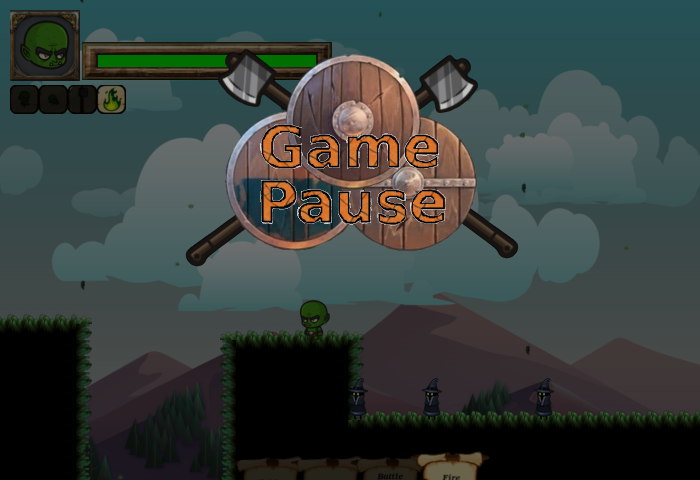
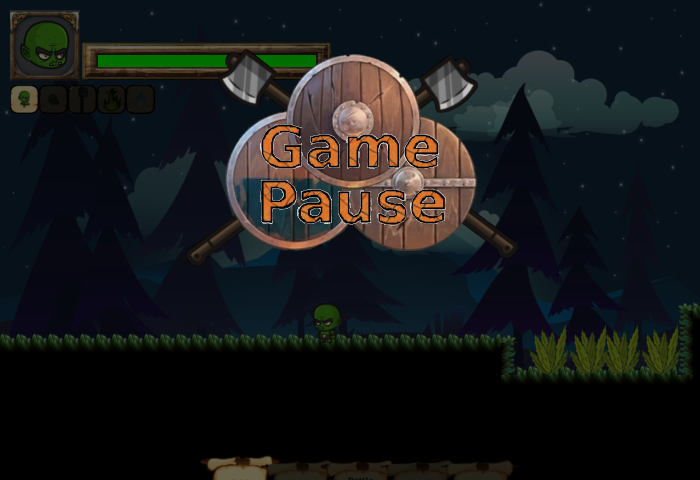
Reajusting the game envirement

diff --git a/data/gameplay/enimy/__init__.py b/data/gameplay/enimy/__init__.py
@@ -18,6 +18,7 @@ class ControlEnimys(object):
         self.allCactusPosition = []
         self.killAttempt = []
         self.enimyKilled = 0
+        self.bossKilled = False
         self.count = 0
         self.addingAllTheAnimys()
 
@@ -46,10 +47,10 @@ class ControlEnimys(object):
                 if(pos[0] in range(scroll[0]-450, scroll[0]+650)):
                     all_rects.append(cactus.add(tile_rects, scroll))
                     self.count += 1
-        print(self.killAttempt)
+        # print(self.killAttempt)
         # print(self.killAttempt)
         # print(self.enimyKilled)
-        return all_rects, self.enimyKilled
+        return all_rects, self.enimyKilled, self.bossKilled
     def addingAllTheAnimys(self):
         if(self.nivel == 0):          
             self.allCactusPosition = [(928, 184),(964, 184),(2370, 504),(2410, 504),(2450, 504),(2478, 504),(3778, 472),(3746, 472),
@@ -157,7 +158,7 @@ class ControlEnimys(object):
             self.allEnimys.append(Wizard(self.screen,(2720,280), 100))
             self.allEnimys.append(Wizard(self.screen,(2720,280), 100))
             self.allEnimys.append(Wizard(self.screen,(2720,280), 100))
-            self.allEnimys.append(Graveller(self.screen, (3603, 120), 356))
+            self.allEnimys.append(Graveller(self.screen, (3603, 120), 250))
 
             self.allEnimysPosition = [(2008,536), (2720,280), (2720,280), (2720,280), (3603, 120)]
 
@@ -199,4 +200,6 @@ class ControlEnimys(object):
                     self.allEnimys.pop(i)
                     self.allEnimysPosition.pop(i)
                     self.killAttempt.pop(i)
-            i += 1  
+            i += 1 
+        elif((self.nivel == 3)and(len(self.allEnimysPosition)==0)):
+            self.bossKilled = True

diff --git a/data/gameplay/__init__.py b/data/gameplay/__init__.py
@@ -41,6 +41,7 @@ class GamePlay(object):
         self.nrInimys = 0
         self.knowingEnimysNr()
         self.playerOnAttack = False
+        self.bossKilled = False
 
         self.count = 0
         self.pos = 0
@@ -62,7 +63,7 @@ class GamePlay(object):
         self.scroll, self.player_rect,self.fireArray, self.enimyCollision, self.enimyType, self.fireEnimyColision, self.fireCollsionPos, self.playerOnAttack = self.player.settingPlayer(tile_rects, self.scroll, self.allEnimysRectsAndTypes, self.inUse)
 
         # update after we check the collision
-        self.allEnimysRectsAndTypes, self.enimysKilled = self.enimys.enimysAdd(tile_rects, self.player_rect,(self.fireEnimyColision, self.fireCollsionPos),(self.playerOnAttack,self.enimyCollision, self.inUse), self.scroll)
+        self.allEnimysRectsAndTypes, self.enimysKilled, self.bossKilled = self.enimys.enimysAdd(tile_rects, self.player_rect,(self.fireEnimyColision, self.fireCollsionPos),(self.playerOnAttack,self.enimyCollision, self.inUse), self.scroll)
 
         # Drawing some visual animation
         self.animation.draw()
@@ -85,7 +86,7 @@ class GamePlay(object):
                     painelState = 13
                 else:
                     painelState = 18
-        elif((self.nivel == 3)and(self.enimysKilled >=5)):
+        elif((self.nivel == 3)and(self.bossKilled)):
             painelState = 19
 
         # controlling the falling out of the game platform
